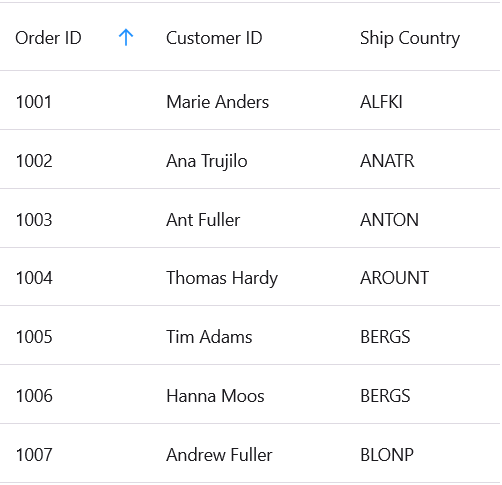
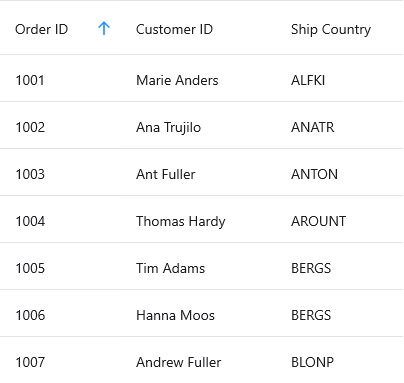
changed

diff --git a/MAUI/DataGrid/Unbound-Column.md b/MAUI/DataGrid/Unbound-Column.md
@@ -14,19 +14,19 @@ The data grid allows adding additional columns that are not bound with data obje
 {% tabs %}
 {% highlight xaml %}
 
-     <syncfusion:SfDataGrid 
-                    x:Name="datagrid"    
-                    ColumnWidthMode="Fill"
-                    AutoGenerateColumnsMode="None"
-                    ItemsSource="{Binding OrderInfoCollection}">
-     <syncfusion:SfDataGrid.Columns>
+<syncfusion:SfDataGrid 
+            x:Name="datagrid"    
+            ColumnWidthMode="Fill"
+            AutoGenerateColumnsMode="None"
+            ItemsSource="{Binding OrderInfoCollection}">
+    <syncfusion:SfDataGrid.Columns>
          <syncfusion:DataGridUnboundColumn 
                         MappingName="DiscountPrice"
                         HeaderText="SUM"
                         Expression="Price1+Price2"
                         Format="C" />
-         </syncfusion:SfDataGrid.Columns>
-    </syncfusion:SfDataGrid>
+    </syncfusion:SfDataGrid.Columns>
+</syncfusion:SfDataGrid>
 
 {% endhighlight %}
 
@@ -49,14 +49,14 @@ The data grid allows adding additional columns that are not bound with data obje
 {% endtabs %}
 
 
-<img alt="" src="Images\unbound-column\maui-datagrid-sample-example.png" width="404" />
+<img alt="Unbound-column" src="Images\unbound-column\maui-datagrid-unbound-column.png" width="404" />
 
 N> It is mandatory to specify the `DataGridColumn.MappingName` for `SfDataGrid.DataGridUnboundColumn` with some name to identify the column. It is not necessary to define name of the field in the data object.
 
 ## Populating data for the unbound column
-Data for the unbound column can be configured by setting the `Expression` property..
+Data for the unbound column can be configured by setting the `Expression` property.
 
-# Using Expression
+### Using Expression
 The arithmetic or logic expression can be specified by using the expression property to compute the display value. By default, `DataGridUnboundColumn` evaluates the expression with casing. The casing will be disabled while evaluating the expression by setting the `CaseSensitive` property to false
 
 List of supported arithmetic and logical operations are as follows:
@@ -112,8 +112,6 @@ List of supported arithmetic and logical operations are as follows:
 </tr>
 </table>
 
-Logical operation
-
 <table>
 <tr>
 <th> Logical operations </th>
@@ -137,25 +135,25 @@ Logical operation
 {% tabs %}
 {% highlight xaml %}
 
- <syncfusion:SfDataGrid x:Name="datagrid"    
-                  ColumnWidthMode="Fill"
-                  AutoGenerateColumnsMode="None"
-                  ItemsSource="{Binding OrderInfoCollection1}">
-     <syncfusion:SfDataGrid.Columns>
+<syncfusion:SfDataGrid x:Name="datagrid"    
+        ColumnWidthMode="Fill"
+        AutoGenerateColumnsMode="None"
+        ItemsSource="{Binding OrderInfoCollection1}">
+    <syncfusion:SfDataGrid.Columns>
          <syncfusion:DataGridUnboundColumn 
-                            MappingName="DiscountPrice"
-                            Expression="Price1+Price2"
-                            HeaderText="SUM"/>
-     </syncfusion:SfDataGrid.Columns>
- </syncfusion:SfDataGrid>
+                MappingName="DiscountPrice"
+                Expression="Price1+Price2"
+                HeaderText="SUM"/>
+    </syncfusion:SfDataGrid.Columns>
+</syncfusion:SfDataGrid>
 {% endhighlight %}
 {% endtabs %}
 
-# Using QueryUnboundColumnValue event
+## Using QueryUnboundColumnValue event
 
-The QueryUnboundColumnValue event is fired when value for the unbound column is quired. It provides information about the cell that triggered this event. So, you can set the desired value for the grid cells of the unbound column. This event is triggered with the DataGridUnboundEventArgs.
+The `QueryUnboundColumnValue` event is fired when value for the unbound column is quired. It provides information about the cell that triggered this event. So, you can set the desired value for the grid cells of the unbound column. This event is triggered with the `DataGridUnboundEventArgs`.
 
-The DataGridUnboundColumnEventArgs provides the following properties:
+The `DataGridUnboundColumnEventArgs` provides the following properties:
 
 ***Column:*** Gets DataGridColumn of the cell that triggers this event.
 ***OriginalSender:*** Gets the data grid raising event.

diff --git a/MAUI/DataGrid/sorting.md b/MAUI/DataGrid/sorting.md
@@ -251,14 +251,26 @@ The default sort icon color can be customized by setting the `DataGridStyle.Sort
 {% tabs %}
 
 {% highlight xaml %}
-<syncfusion:SfDataGrid.DefaultStyle>
-    <syncfusion:DataGridStyle SortIconColor="DodgerBlue" />
-</syncfusion:SfDataGrid.DefaultStyle>
+<syncfusion:SfDataGrid x:Name="sfDataGrid"
+                        ItemsSource="{Binding OrderInfoCollection}" >
+        <syncfusion:SfDataGrid.DefaultStyle>
+                <syncfusion:DataGridStyle SortIconColor="DodgerBlue" />
+        </syncfusion:SfDataGrid.DefaultStyle>
+            <syncfusion:SfDataGrid.Columns>
+                    <syncfusion:DataGridTextColumn MappingName="OrderID"
+                              AllowSorting="True"
+                              HeaderText="Order ID" />
+                    <syncfusion:DataGridTextColumn MappingName="CustomerID"
+                              HeaderText="Customer ID" />
+                    <syncfusion:DataGridTextColumn MappingName="ShipCountry "
+                              HeaderText="Ship Country " />
+            </syncfusion:SfDataGrid.Columns>
+</syncfusion:SfDataGrid>
 {% endhighlight %}
 {% endtabs %}
 
-![DataGrid with sort template selector]
-<img src="Images\sorting\maui-datagrid-Sort-Icon-Color.png" width="404">
+
+<img alt="DataGrid with sort template selector" src="Images\sorting\maui-datagrid-sort-icon-color.png" width="404">
 
 
 ## Load sort icon through template
